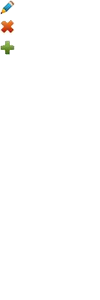
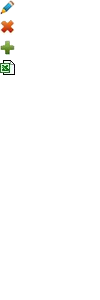
add viewExportUser and exportUser method, todo it continue

Changed region(s): [[0.0, 0.18, 0.15, 0.27]]

diff --git a/WebContent/common/css/common.css b/WebContent/common/css/common.css
@@ -184,6 +184,7 @@ min-height:300px;height:auto !important;height:300px;}
 .add-operator,
 .add-role,
 .add-user,
+.export-user,
 .add-news,
 .add-userrole,
 .add-permission,
@@ -301,6 +302,7 @@ background:url(../images/sep-line.png) right 0px repeat-y;}
 .email,.cornet,.telephone,.academyID,.major,.location,.dormitory,.departmentID,.islock{width:200px;}
 
 .add-user{}
+.export-user{background-position:0px -56px;}
 
 /* =================用户与角色对应关系====================== */
 .adduserrole-title{}

diff --git a/src/com/zjut/oa/mvc/action/UserAction.java b/src/com/zjut/oa/mvc/action/UserAction.java
@@ -16,6 +16,7 @@ import com.zjut.oa.db.Pager;
 import com.zjut.oa.mvc.core.ActionAdapter;
 import com.zjut.oa.mvc.core.Constant;
 import com.zjut.oa.mvc.core.annotation.Fail;
+import com.zjut.oa.mvc.core.annotation.None;
 import com.zjut.oa.mvc.core.annotation.Result;
 import com.zjut.oa.mvc.core.annotation.Success;
 import com.zjut.oa.mvc.domain.Academy;
@@ -991,4 +992,17 @@ public class UserAction extends ActionAdapter {
 		return this.filter(req, resp);
 	}
 
+	@Result("/WEB-INF/pages/freeze/user/viewExportUser.jsp")
+	public String viewExportUser(HttpServletRequest req, HttpServletResponse resp){
+		
+		return INPUT;
+	}
+	
+	@None
+	@Fail(path="/WEB-INF/pages/freeze/user/viewExportUser.jsp")
+	public String exportUser(HttpServletRequest req, HttpServletResponse resp){
+		
+		
+		return INPUT;
+	}
 }
